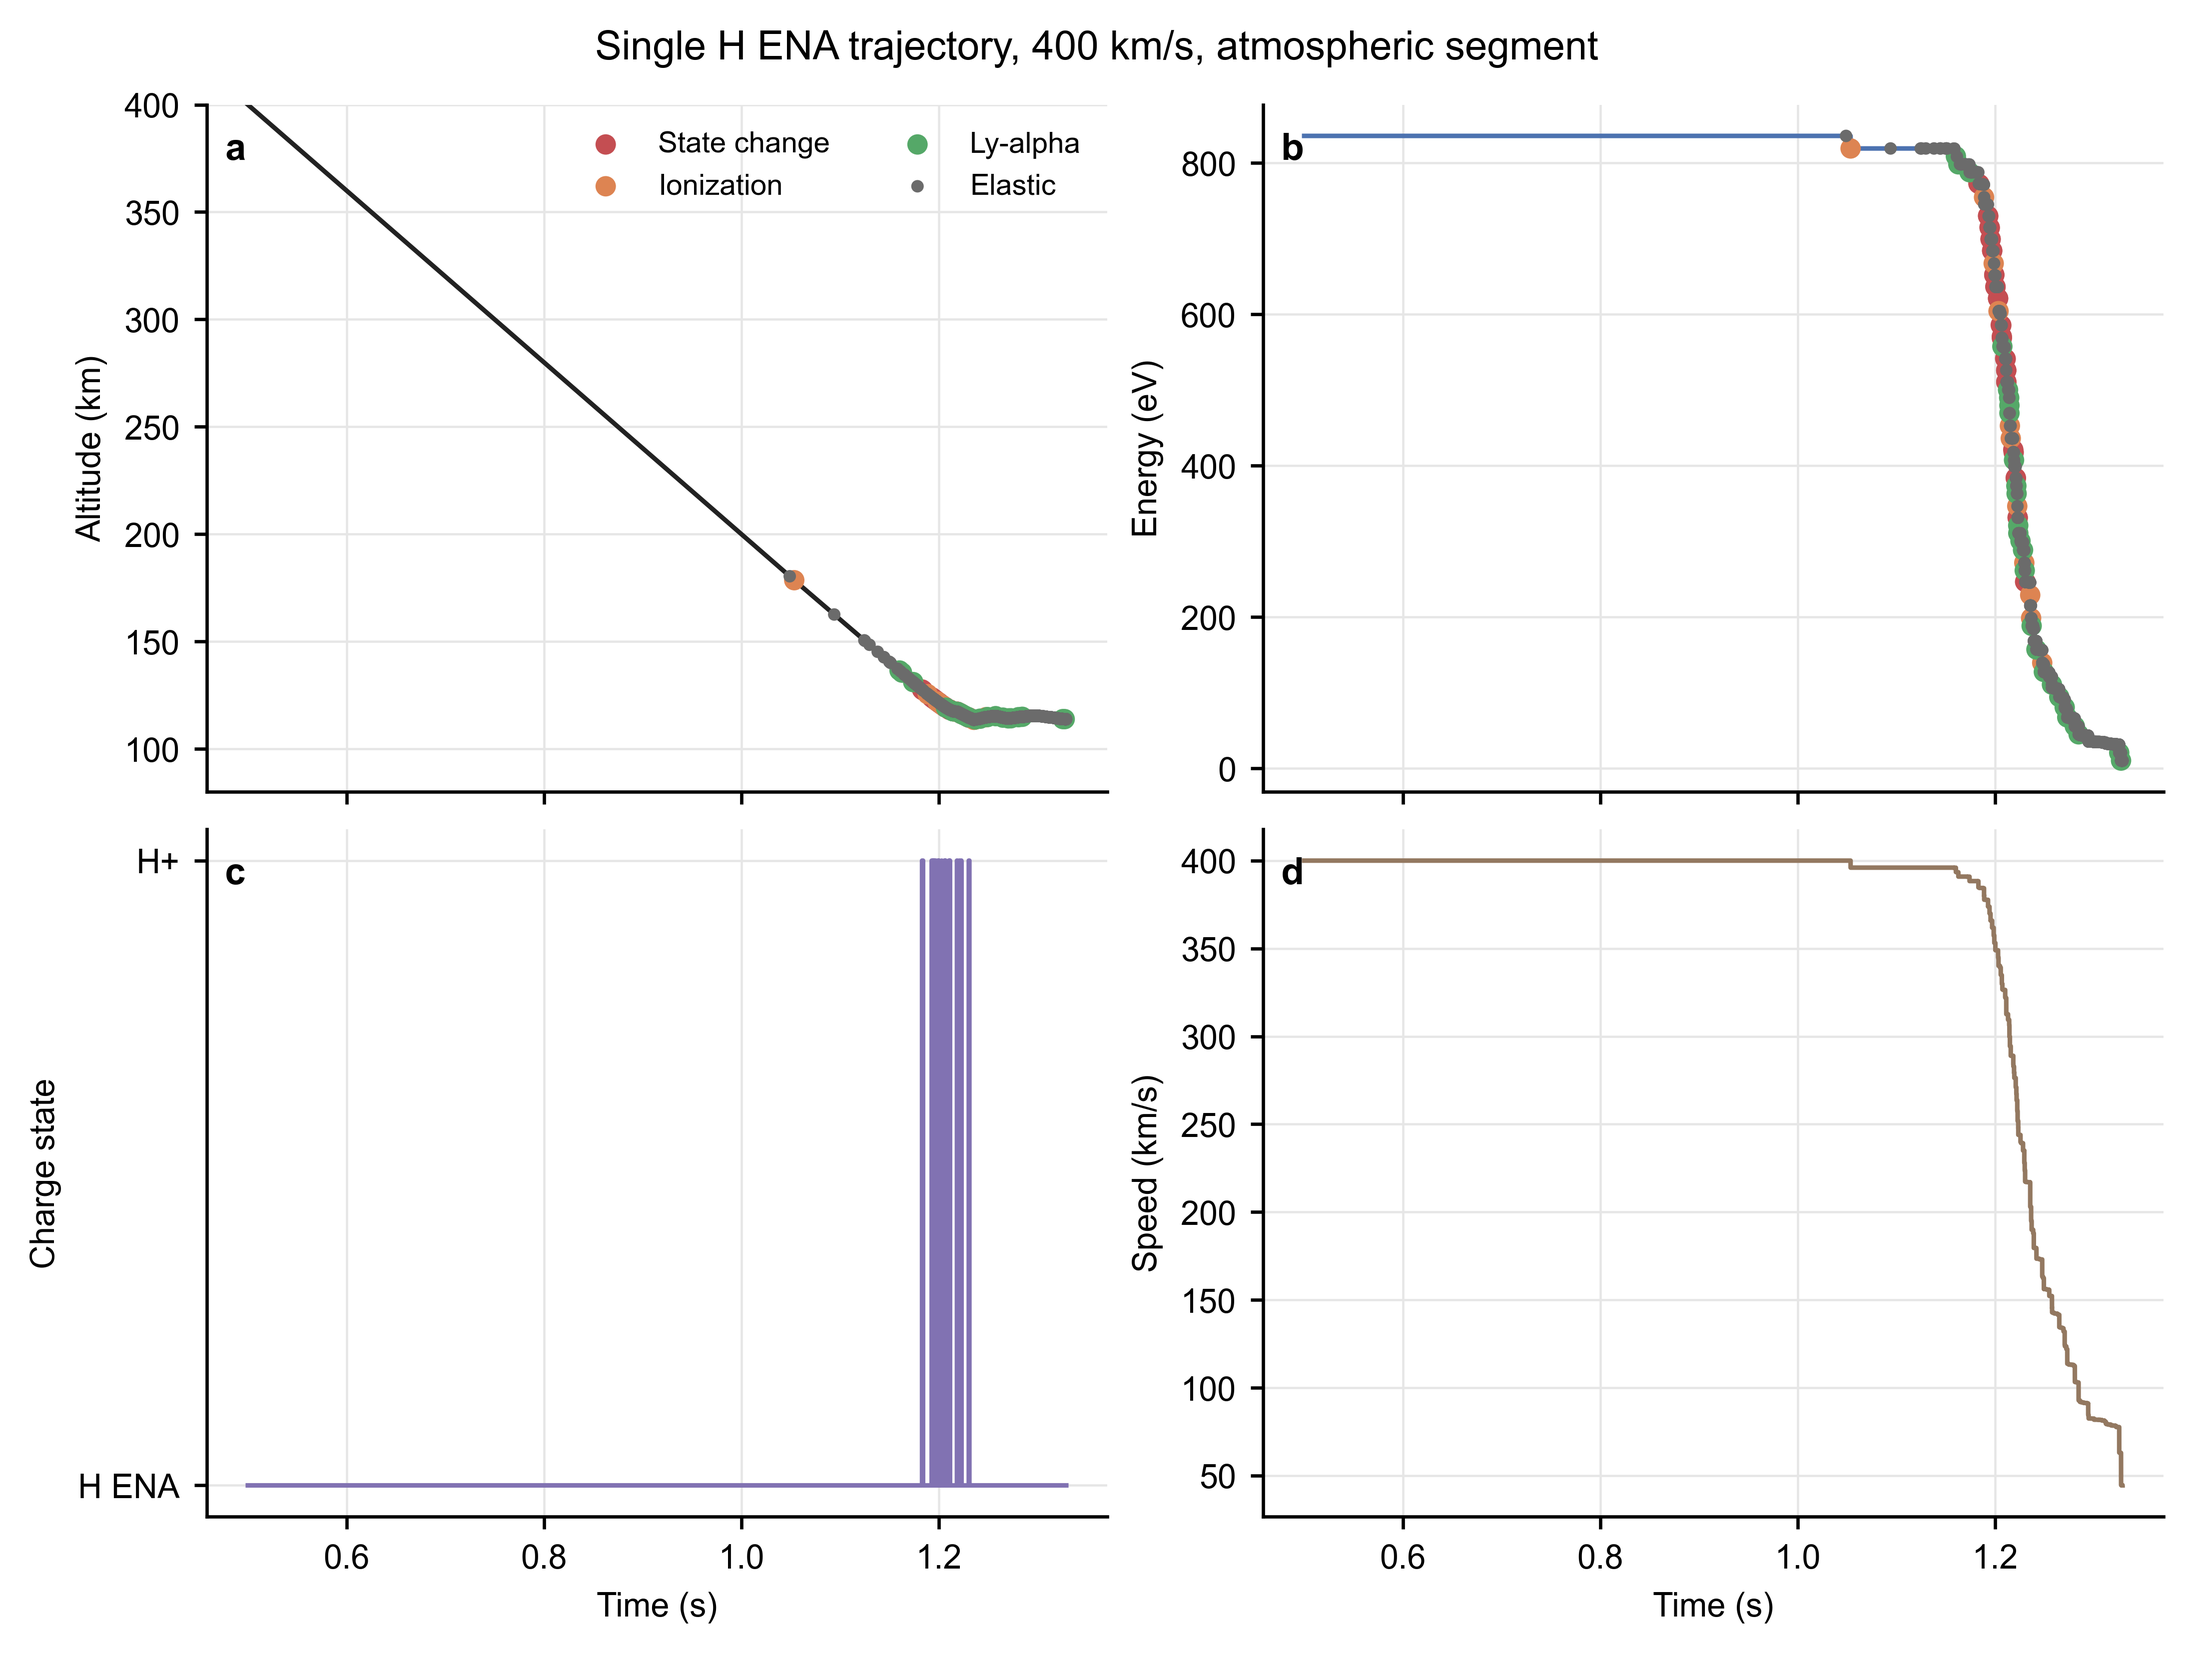
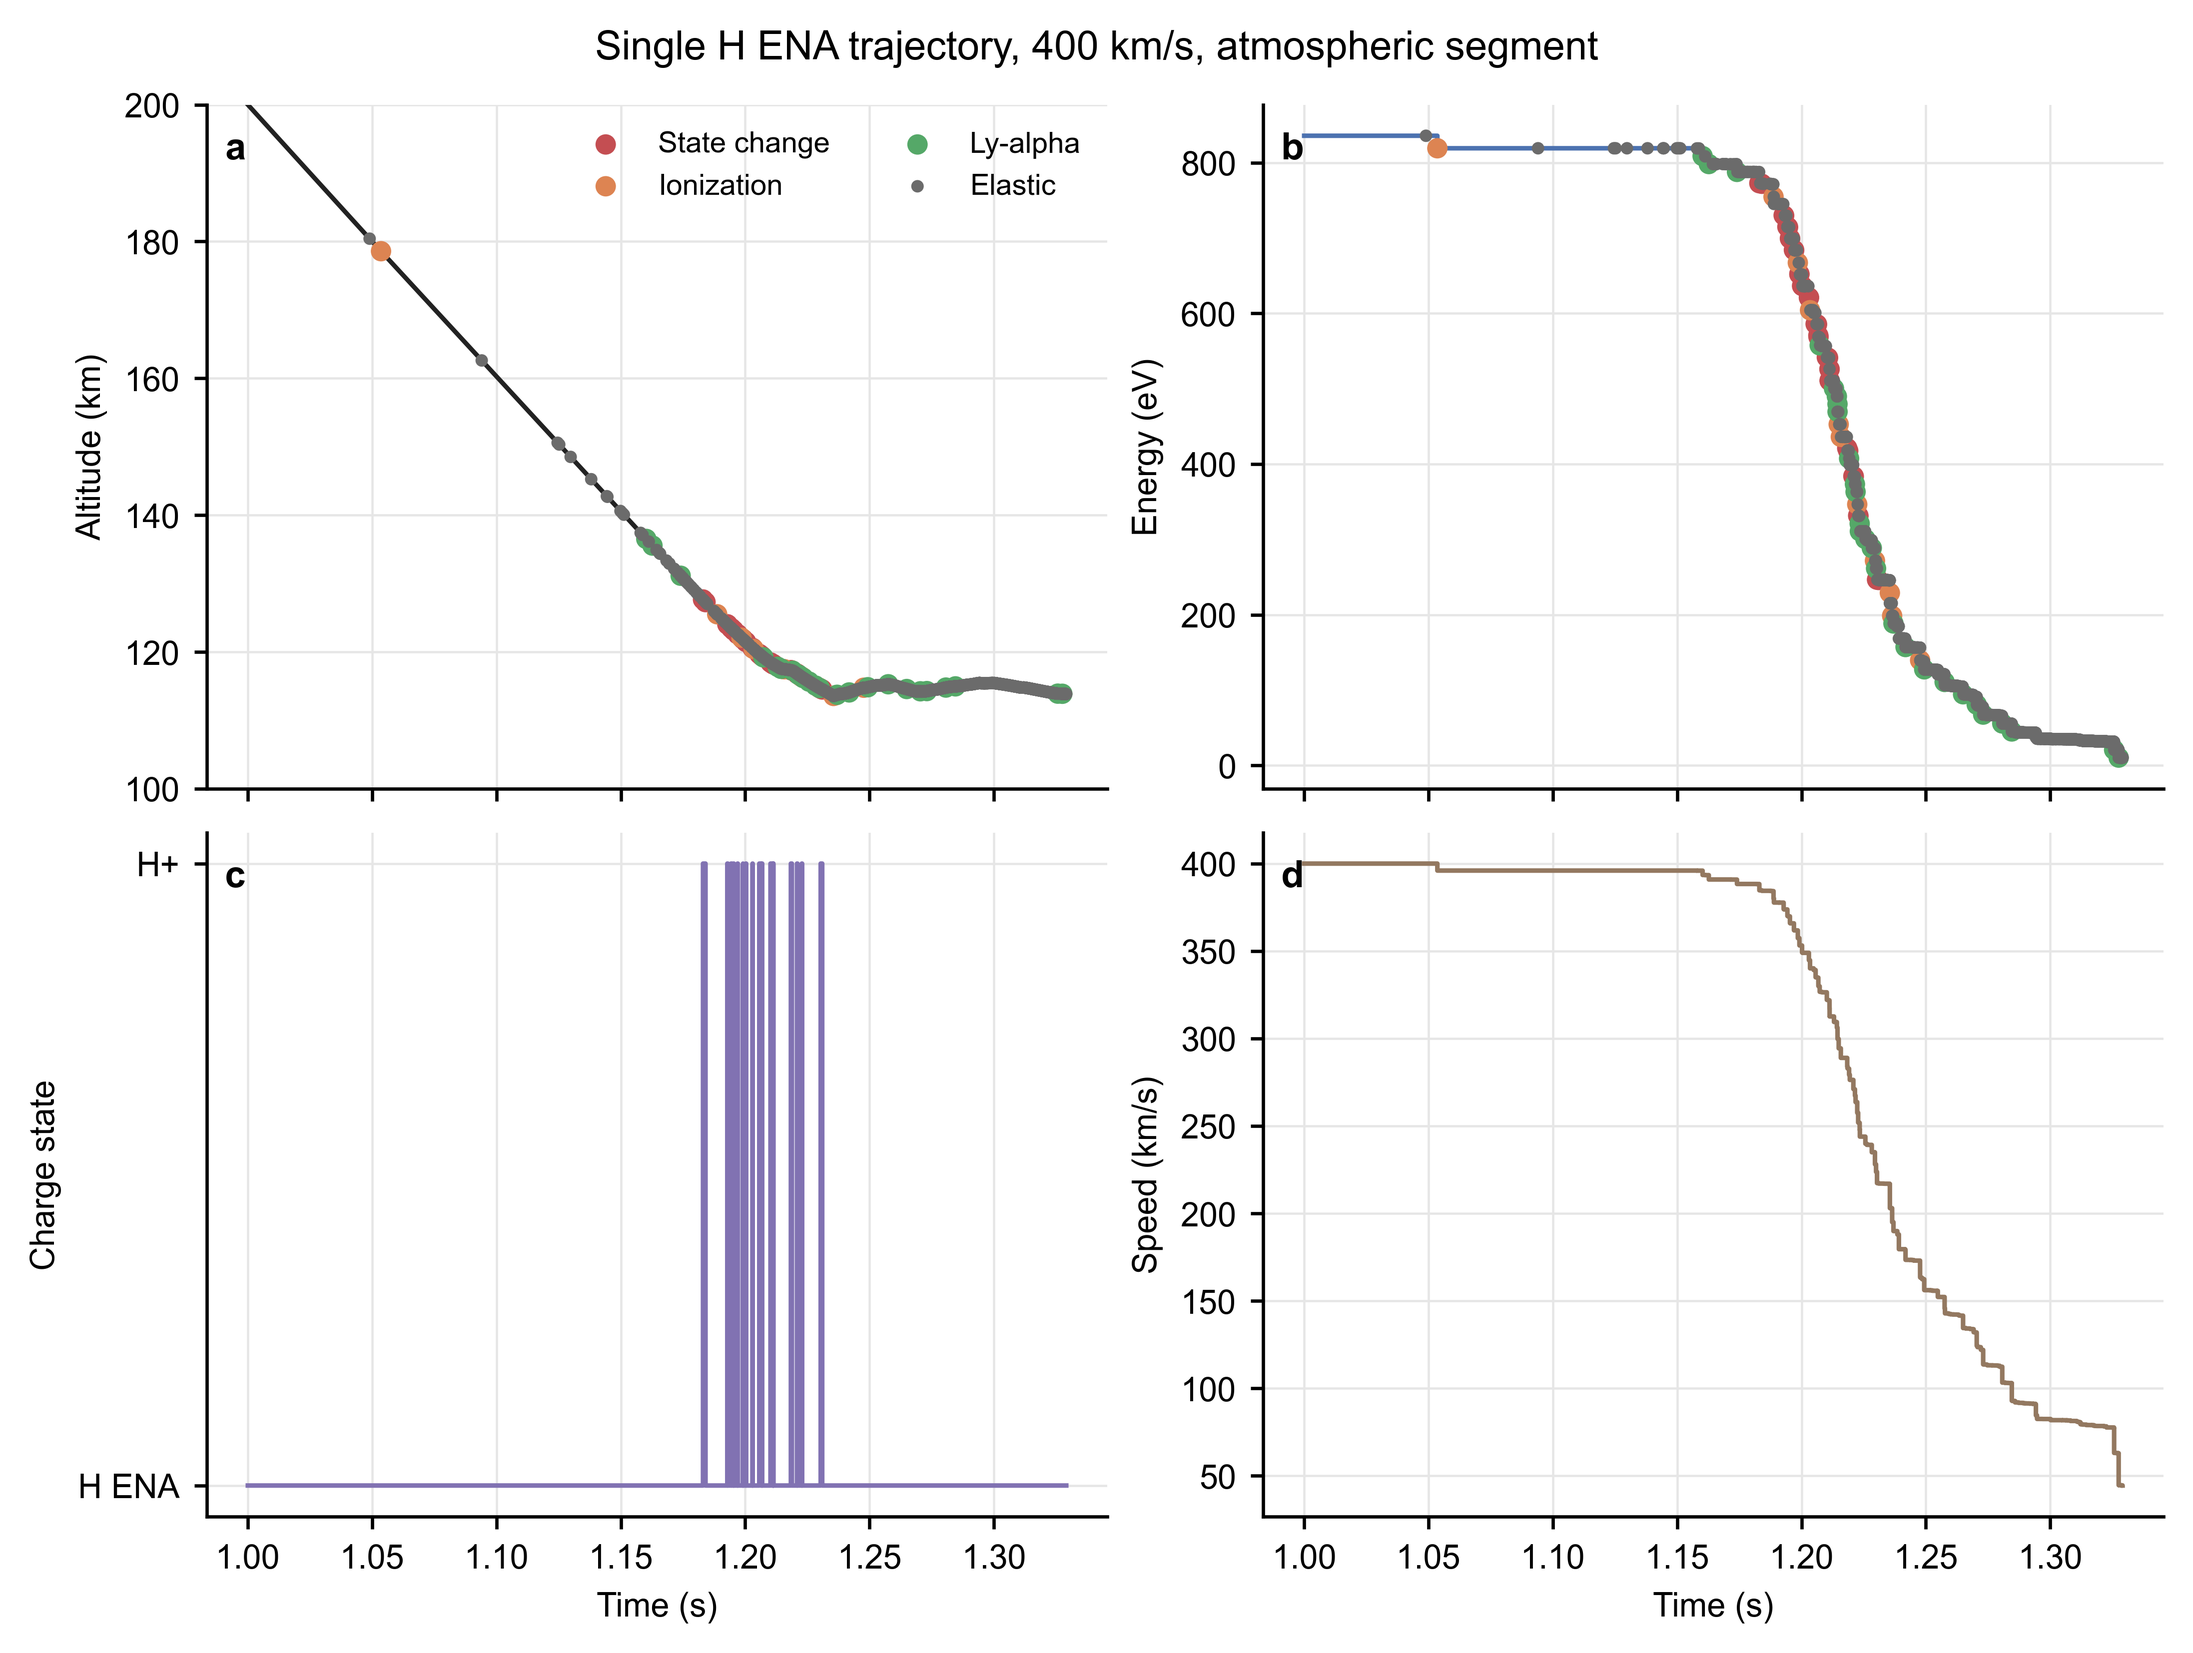
Focus single H ENA figure on 100 to 200 km

diff --git a/examples/plot_single_trajectory.py b/examples/plot_single_trajectory.py
@@ -6,11 +6,9 @@ target ionization, Ly-alpha production, and elastic scattering. Identical
 reaction colors are used in the altitude and energy panels so each event can
 be followed between physical quantities.
 
-Only the portion of the history between 80 and 400 km is displayed. This
-removes the collision-free source segment above 400 km and focuses the figure
-on the atmospheric interaction region. The four panels provide complementary
-evidence: reaction altitude, kinetic-energy evolution, charge state, and
-particle speed.
+The displayed altitude interval is configurable. The four panels provide
+complementary evidence: reaction altitude, kinetic-energy evolution, charge
+state, and particle speed over the same selected time interval.
 
 The output argument specifies the PNG file saved for the example.
 """
@@ -63,7 +61,11 @@ def main() -> None:
     parser = argparse.ArgumentParser()
     parser.add_argument("mat_file", type=Path)
     parser.add_argument("--output", type=Path, default=None)
+    parser.add_argument("--altitude-min", type=float, default=80.0)
+    parser.add_argument("--altitude-max", type=float, default=400.0)
     args = parser.parse_args()
+    if args.altitude_min >= args.altitude_max:
+        raise ValueError("--altitude-min must be smaller than --altitude-max.")
 
     # The loader supports classic MAT and HDF5-backed MAT v7.3. Event columns
     # remain aligned row by row.
@@ -86,9 +88,15 @@ def main() -> None:
     # Restrict every panel to the same atmospheric part of the trajectory.
     # Applying one common mask preserves alignment among time, position,
     # velocity, charge, and reaction columns.
-    altitude_window = (altitude >= 80.0) & (altitude <= 400.0)
+    altitude_window = (
+        (altitude >= args.altitude_min)
+        & (altitude <= args.altitude_max)
+    )
     if not np.any(altitude_window):
-        raise ValueError("This trajectory contains no samples from 80 to 400 km.")
+        raise ValueError(
+            "This trajectory contains no samples from "
+            f"{args.altitude_min:g} to {args.altitude_max:g} km."
+        )
     time_s = time_s[altitude_window]
     altitude = altitude[altitude_window]
     energy = energy[altitude_window]
@@ -126,7 +134,7 @@ def main() -> None:
         )
 
     axes[0].set_ylabel("Altitude (km)")
-    axes[0].set_ylim(80, 400)
+    axes[0].set_ylim(args.altitude_min, args.altitude_max)
     axes[1].set_ylabel("Energy (eV)")
     axes[2].set_ylabel("Charge state")
     axes[2].set_yticks([0, 1], ["H ENA", "H+"])

diff --git a/examples/README.md b/examples/README.md
@@ -17,11 +17,13 @@ scattering angle, and cumulative collision probability.
 
 ```powershell
 julia --project=. examples/run_h_ena_trajectory.jl
-C:\Users\Win\.conda\envs\mars\python.exe examples/plot_single_trajectory.py examples/output/single_h_ena_400kms.mat
+C:\Users\Win\.conda\envs\mars\python.exe examples/plot_single_trajectory.py examples/output/single_h_ena_400kms.mat --altitude-min 100 --altitude-max 200 --output examples/figures/single_h_ena_400kms.png
 ```
 
 The PNG is stored at
-`examples/figures/single_h_ena_400kms.png`.
+`examples/figures/single_h_ena_400kms.png`. All four panels use the portion
+of the trajectory lying between 100 and 200 km so reactions and associated
+energy, charge-state, and speed changes remain visible.
 
 ## 2. Single H+ trajectory
 
